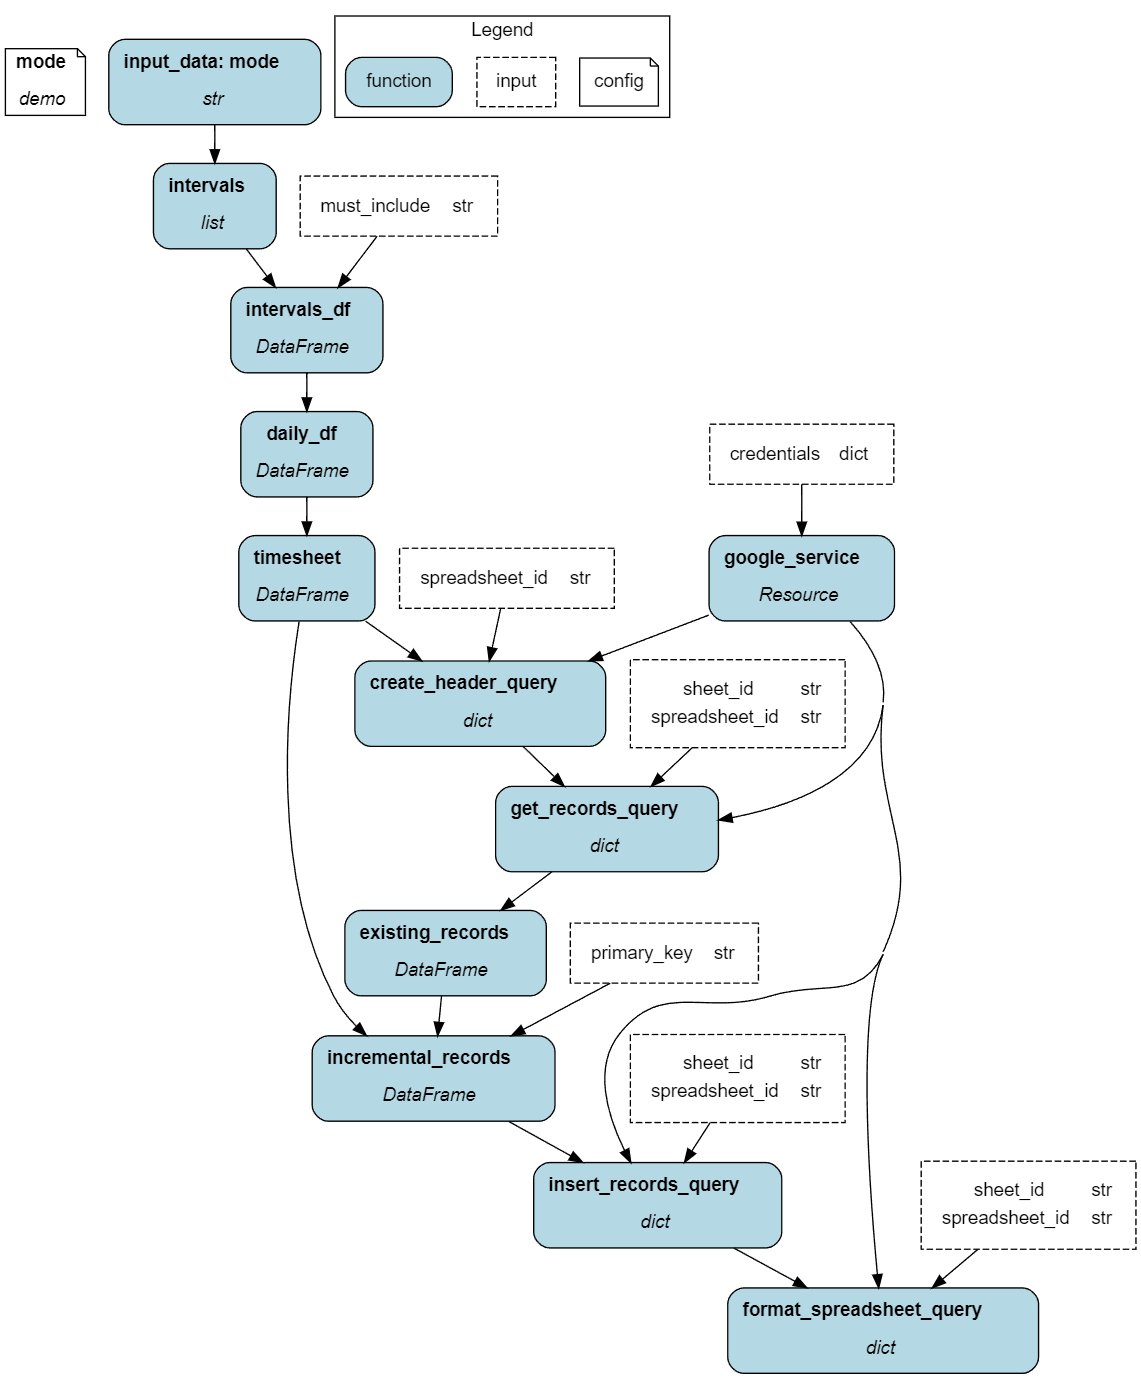
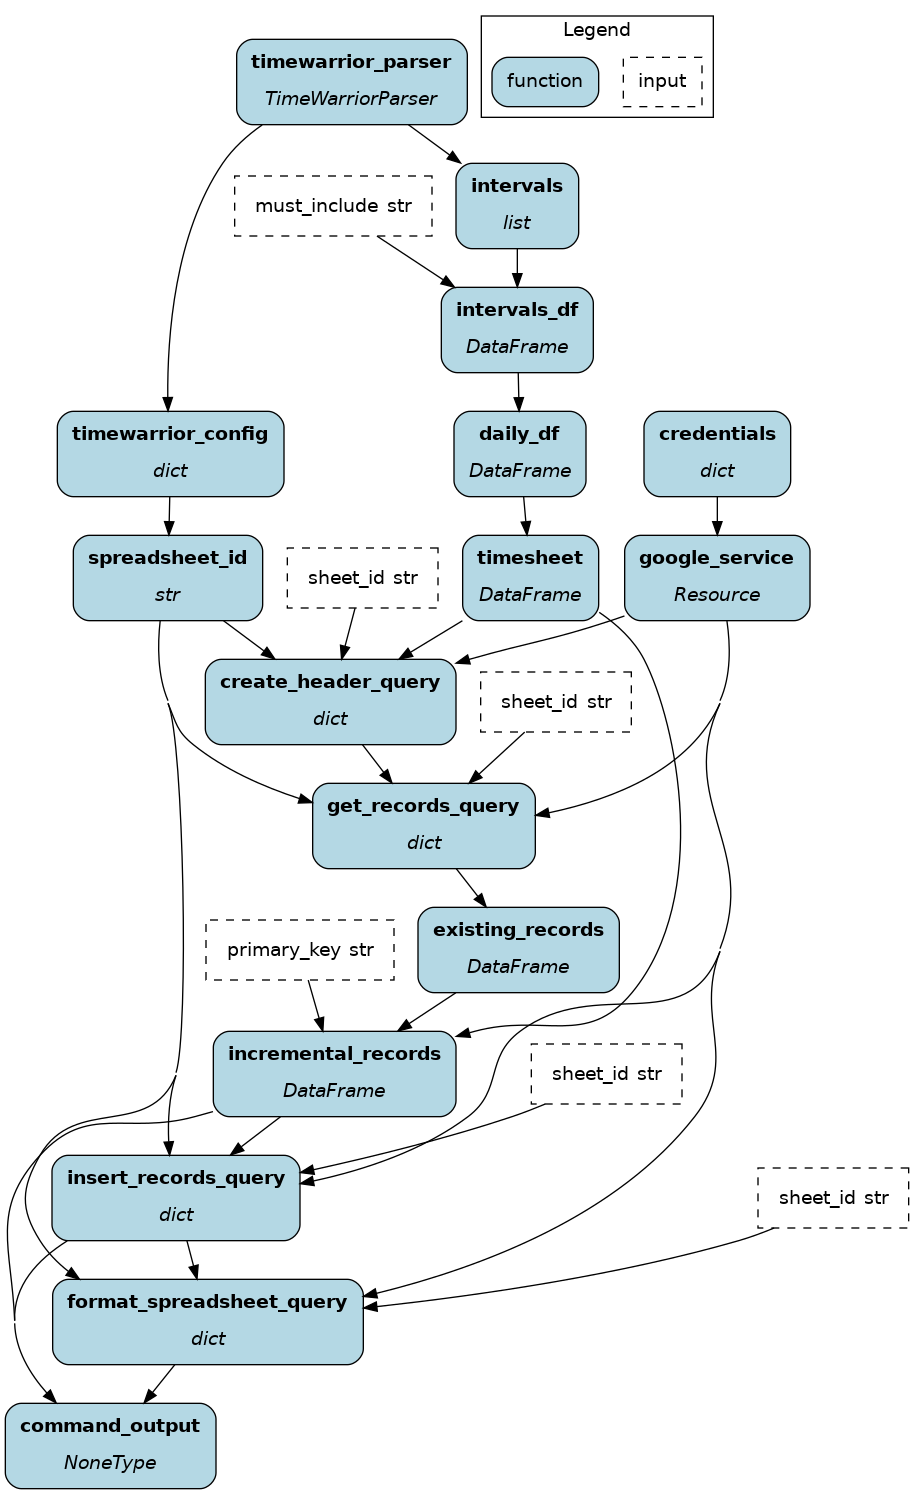
added Timewarrior extension

diff --git a/examples/reverse_etl/upload_timesheet.py b/examples/reverse_etl/upload_timesheet.py
@@ -1,0 +1,321 @@
+#!/usr/bin/env python3
+import json
+import pathlib
+import sys
+
+import pandas as pd
+from google.oauth2.service_account import Credentials
+from googleapiclient.discovery import Resource, build
+from timewreport.parser import TimeWarriorParser
+
+from hamilton.function_modifiers import extract_fields
+
+DEFAULT_SHEET_ID = "Sheet1"
+
+
+def timewarrior_parser() -> TimeWarriorParser:
+    """Parse Timewarrior's output"""
+    return TimeWarriorParser(sys.stdin)
+
+
+def intervals(timewarrior_parser: TimeWarriorParser) -> list[dict]:
+    """Get a list of time intervals from the parser"""
+    return [
+        dict(
+            date=interval.get_end(),
+            duration=interval.get_duration(),
+            tags=interval.get_tags(),
+        )
+        for interval in timewarrior_parser.get_intervals()
+    ]
+
+
+@extract_fields(dict(spreadsheet_id=str))
+def timewarrior_config(timewarrior_parser: TimeWarriorParser) -> dict:
+    config = timewarrior_parser.get_config()
+    spreadsheet_id = config.get_value("spreadsheet_id", None)
+
+    if spreadsheet_id is None:
+        raise ValueError(
+            "Missing `spreasheet_id` config. Set it with `timew config spreadsheet_id ID`"
+        )
+
+    return dict(spreadsheet_id=spreadsheet_id)
+
+
+def _is_tag_included(tags: list[str], target: str) -> bool:
+    """Check if the `target` string is included in a tag.
+    For example, target `foo` is in tag `foobar`.
+
+    This allows some flexibility with regards to typos in tags.
+    Since Timewarrior expects `+$TAG` while Timewarrior expects
+    `$TAG`, uncessary `+` are sometime present in Timewarrior.
+    """
+    for tag in tags:
+        if target in tag:
+            return True
+    return False
+
+
+def _get_description(tags: list[str]) -> str:
+    """Return the first tag containing more than one word.
+
+    The Taskwarrior hook adds tags for task: project, tags, and description
+    to the generated Timewarrior intervals. project and tags don't allow for
+    whitespaces; only description does.
+
+    Hits an edge case for single word descriptions. A single word task is
+    a poorly written task and is uncommon.
+    """
+    for tag in tags:
+        if len(tag.split(" ")) > 1:
+            return tag
+    return ""
+
+
+def intervals_df(intervals: list[dict], must_include: str = "DW") -> pd.DataFrame:
+    """Convert the Timewarrior parsed intervals to a dataframe.
+
+    If `must_include`, check tags to ensure the string is present in a given tag.
+    The default value is `DW`, which stands for DAGWorks, my current employer.
+
+    Exclude intervals of 1 minute or less
+    """
+    df = pd.DataFrame.from_records(intervals)
+    df = df.loc[df.duration > pd.Timedelta(minutes=1)]
+    if must_include:
+        df = df.loc[df.tags.apply(_is_tag_included, target=must_include)]
+
+    df["week_day"] = df["date"].dt.weekday
+    df["week_number"] = df["date"].dt.isocalendar().week
+    df["date"] = pd.to_datetime(df["date"]).dt.date
+    df["description"] = df.tags.apply(_get_description)
+
+    return df[["date", "week_number", "week_day", "duration", "description"]]
+
+
+def _deduplicate_items(items: list[str]) -> str:
+    """Custom aggregation that reduces a list of strings
+    to a set of unique items before joining them.
+    """
+    return "; ".join(set(items))
+
+
+def daily_df(intervals_df: pd.DataFrame) -> pd.DataFrame:
+    """Aggregate intervals daily to match the granularity of timesheet entries
+
+    Note that the order of items in the `agg()` dict determines column orders.
+    Also, we need to use `.reset_index()` to recover the `date` column.
+    """
+    return (
+        intervals_df.groupby("date")
+        .agg(
+            dict(
+                week_number="first",
+                week_day="first",
+                description=_deduplicate_items,
+                duration="sum",
+            )
+        )
+        .reset_index()
+    )
+
+
+def timesheet(daily_df: pd.DataFrame) -> pd.DataFrame:
+    """Converts seconds to hours. Then, convert to the number of quarter hours
+    and round to nearest value.
+    """
+    daily_df["duration"] = daily_df["duration"].dt.total_seconds() / 3600
+    daily_df["duration"] = (daily_df["duration"] / 0.25).round() * 0.25
+    daily_df["weekly_cumulative"] = daily_df.groupby("week_number")["duration"].cumsum()
+    return daily_df
+
+
+def credentials() -> dict:
+    credentials_path = pathlib.Path("~/.timewarrior/extensions/credentials.json").expanduser()
+    return json.loads(credentials_path.read_text())
+
+
+def google_service(credentials: dict) -> Resource:
+    """Create a Google Resource used to interact with Google Sheets."""
+    return build("sheets", "v4", credentials=Credentials.from_service_account_info(credentials))
+
+
+def create_header_query(
+    timesheet: pd.DataFrame,
+    google_service: Resource,
+    spreadsheet_id: str,
+    sheet_id: str = DEFAULT_SHEET_ID,
+) -> dict:
+    """Query to create the header of our timesheet"""
+    columns = timesheet.columns.to_list()
+    header_query = (
+        google_service.spreadsheets()
+        .values()
+        .update(
+            spreadsheetId=spreadsheet_id,
+            range=f"{sheet_id}!A1",
+            valueInputOption="RAW",
+            body={"values": [columns]},
+        )
+    )
+    return header_query.execute()
+
+
+def get_records_query(
+    create_header_query: dict,
+    google_service: Resource,
+    spreadsheet_id: str,
+    sheet_id: str = DEFAULT_SHEET_ID,
+) -> dict:
+    """Query to get the existing values in our timesheet.
+
+    `create_header_query` is a dependency even though it doesn't
+    pass any data because it needs to be executed first to enable
+    parsing sheets values into a dataframe.
+
+    Parsing the query results in a separate function, facilitates
+    debugging by letting us inspect the query response.
+    """
+    query = (
+        google_service.spreadsheets()
+        .values()
+        .get(spreadsheetId=spreadsheet_id, range=sheet_id, majorDimension="ROWS")
+    )
+    return query.execute()
+
+
+def existing_records(get_records_query: dict) -> pd.DataFrame:
+    """Parse the existing records into a dataframe.
+    The first row contains the header/columns, followed by daily
+    timesheet records.
+    """
+    columns = get_records_query["values"][0]
+    rows = get_records_query["values"][1:]
+    return pd.DataFrame(rows, columns=columns)
+
+
+def incremental_records(
+    timesheet: pd.DataFrame,
+    existing_records: pd.DataFrame,
+    primary_key: str = "date",
+) -> pd.DataFrame:
+    """Check the `primary_key` in the current timesheet and the existing records
+    and narrow it to new keys. Only return new records, sorted by `date`.
+
+    Since `existing_records()` returns JSON-serializable types, we have to make sure
+    both dataframes have the same type for the primary key. For example, `timesheet`
+    would have column `date: Date`, but `existing_records` will have `date: str`
+    """
+    timesheet[primary_key] = timesheet[primary_key].astype(str)
+
+    existing_keys = set(existing_records[primary_key])
+    new_keys = set(timesheet[primary_key]).difference(existing_keys)
+    return timesheet.loc[timesheet[primary_key].isin(new_keys)].sort_values("date")
+
+
+def insert_records_query(
+    incremental_records: pd.DataFrame,
+    google_service: Resource,
+    spreadsheet_id: str,
+    sheet_id: str = DEFAULT_SHEET_ID,
+) -> dict:
+    """Query to insert new timesheet records in Google Sheets.
+
+    Google expects row-major entries where each row is an iterable (i.e., list, tuple)
+    Therefore, we need to unpack the dictionary. Doing `tuple(record.values())` ensures
+    the order of the elements respects the order of the columns specified by `timesheet.columns.to_list()`
+    in `create_header_query()`.
+    """
+    # convert Date objects to string to make JSON-serializable
+    incremental_records["date"] = incremental_records["date"].astype(str)
+    rows = [tuple(record.values()) for record in incremental_records.to_dict(orient="records")]
+
+    # assumes less than 26 columns
+    last_column_id = chr(64 + len(incremental_records.columns))
+    query = (
+        google_service.spreadsheets()
+        .values()
+        .append(
+            spreadsheetId=spreadsheet_id,
+            range=f"{sheet_id}!A2:{last_column_id}",
+            valueInputOption="RAW",
+            insertDataOption="OVERWRITE",
+            body={"values": rows},
+        )
+    )
+    query_results = query.execute()
+    return query_results
+
+
+def format_spreadsheet_query(
+    insert_records_query: dict,
+    google_service: Resource,
+    spreadsheet_id: str,
+    sheet_id: str = DEFAULT_SHEET_ID,
+) -> dict:
+    """Get all records after updating the timesheet and style rows
+    by adding a border whenever the `week_number` changes
+    """
+    # use a node function directly
+    records = get_records_query({}, google_service, spreadsheet_id, sheet_id)
+
+    requests = []
+    current_week = None
+    for idx, record in enumerate(records["values"]):
+        columns = records["values"][0]
+        week_number_idx = columns.index("week_number")
+
+        if current_week != record[week_number_idx]:
+            current_week = record[week_number_idx]
+
+            requests.append(
+                {
+                    "updateBorders": {
+                        "range": {
+                            "sheetId": 0,
+                            "startRowIndex": idx,
+                            "endRowIndex": idx + 1,
+                            "startColumnIndex": 0,
+                            "endColumnIndex": len(columns),
+                        },
+                        "top": {"style": "SOLID", "width": 2},
+                    }
+                }
+            )
+
+    return (
+        google_service.spreadsheets()
+        .batchUpdate(spreadsheetId=spreadsheet_id, body={"requests": requests})
+        .execute()
+    )
+
+
+def command_output(
+    format_spreadsheet_query: dict,
+    incremental_records: pd.DataFrame,
+    insert_records_query: dict,
+) -> None:
+    """Print back to the terminal the execution results.
+
+    `format_spreadsheet_query()` is included to ensure it is executed.
+    """
+    records_uploaded = insert_records_query.get("updates", {}).get("updatedRows", 0)
+    if records_uploaded:
+        print(f"{records_uploaded=:}")
+        print()
+        print(incremental_records[["date", "duration", "weekly_cumulative"]])
+    else:
+        print("No new records to upload.")
+
+
+if __name__ == "__main__":
+    import __main__
+    import pandas as pd
+
+    from hamilton import driver
+
+    # build dataflow
+    dr = driver.Builder().with_modules(__main__).build()
+    dr.display_all_functions("dag.png", orient="TB")
+    # dr.execute(["command_output"])

diff --git a/examples/reverse_etl/README.md b/examples/reverse_etl/README.md
@@ -1,0 +1,61 @@
+# Reverse ETL for your timesheets
+
+This example shows how to create a timesheet from time tracking data generated by the command line tool [Timewarrior](https://timewarrior.net/) and upload it to Google Sheets.
+
+![](dag.png)
+
+## Content
+1. `notebook.ipynb` explains the code step-by-step and allows you to interact and modify the dataflow.
+2. `upload_timesheet.py` contains the same dataflow but as a script. It can be used as a [Timewarrior extension](https://timewarrior.net/docs/api/) directly, see below.
+
+## Set up
+1. Create a virtual environment and activate it
+    ```console
+    python -m venv venv && . venv/bin/active
+    ```
+
+2. Install requirements
+    ```console
+    pip install -r requirements.txt
+    ```
+
+## Timewarrior extension
+Adding a [Timewarrior extension](https://timewarrior.net/docs/api/) means you can trigger arbitrary scripts with `timew report SCRIPT_FILE_NAME`. Even better, you can skip the `report` command and only type the `SCRIPT_FILE_NAME` partially if it's unambiguous. For example, you can trigger `upload_timesheet.py` with `timew upload`.
+
+To enable this, follow these steps:
+1. Identify your Timewarrior installation directory (we'll assume the default: `~/.timewarrior`)
+2. Copy `upload_timesheet.py` from this example to `~/.timewarrior/extensions`
+3. Create a `credentials.json` with credentials for the Google Sheets API ([see step-by-step guide](https://hackernoon.com/how-to-use-the-google-sheets-api-with-python)) under `~/.timewarrior/extensions`. It should look like this:
+
+    ```json
+    credentials = {
+        "type": "service_account",
+        "project_id": "...",
+        "private_key_id": "...",
+        "private_key": "-----BEGIN PRIVATE KEY----- ...",
+        "client_email": "... .iam.gserviceaccount.com",
+        "client_id": "...",
+        "auth_uri": "https://accounts.google.com/o/oauth2/auth",
+        "token_uri": "https://oauth2.googleapis.com/token",
+        "auth_provider_x509_cert_url": "https://www.googleapis.com/oauth2/v1/certs",
+        "client_x509_cert_url": "https://www.googleapis.com/robot/v1/metadata/x509/ ...",
+        "universe_domain": "googleapis.com"
+    }
+    ```
+4. Enable execution permissions with `chmod +x upload_timesheet.py`
+5. Verify the extension is enabled with `timew extensions`. You should see
+
+    ```console
+    Extensions located in:
+        ~/.timewarrior/extensions
+
+    Extension        Status
+    credentials.json No executable
+    upload_timesheet.py Active
+    ```
+6. Get the `spreadsheet_id` from the Google Sheets URL `https://docs.google.com/spreadsheets/d/$SPREADSHEET_ID/edit?gid=0#gid=0`
+7. Add the `spreadsheet_id` as a Timewarrior config point via `timew config spreadsheet_id $SPREADSHEET_ID`
+8. Use the command `timew report upload_timesheet.py` to test it out! You should be able to shorten it to `timew upload`
+
+> [!NOTE]
+> Try to run `python upload_timesheet.py` will hang because it will to read values from `sys.stdin` which would be provided by the Timewarrior CLI.
